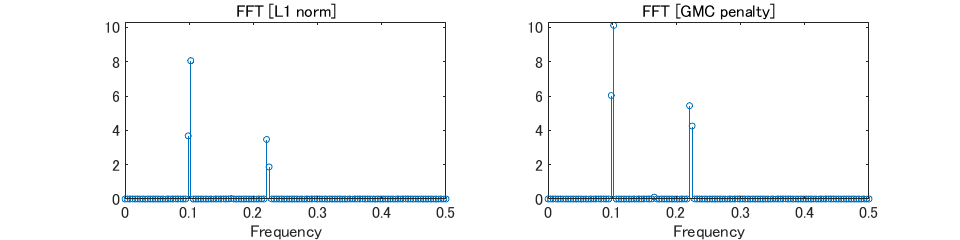
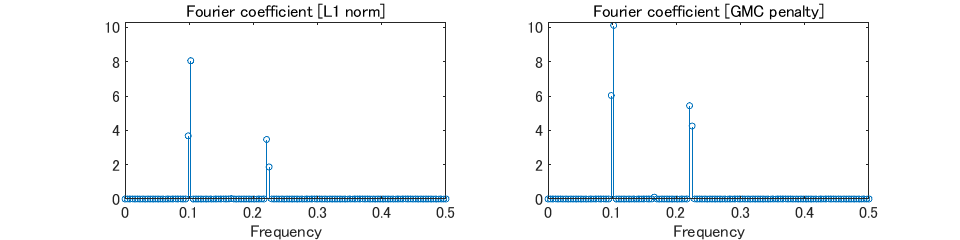
improve images

Changed region(s): [[0.5938, 0.0, 0.875, 0.0875], [0.1875, 0.0, 0.4062, 0.0875]]

diff --git a/problem11/main.m b/problem11/main.m
@@ -130,10 +130,10 @@ f2.Position(3:4) = [640 160];
 
 % Denoised signal
 f3 = figure;
-subplot(121), plot(1:M, data.A*x_L1(:, optimal_idx, 1)), title('Denoised [L1 norm]');
+subplot(121), plot(1:M, data.A*x_L1(:, optimal_idx, 1)), title('Denoised signal [L1 norm]');
 ylim([-5, 5]);
 xlabel("m");
-subplot(122), plot(1:M, data.A*x_GMC(:, optimal_idx, 1)), title('Denoised [GMC penalty]');
+subplot(122), plot(1:M, data.A*x_GMC(:, optimal_idx, 1)), title('Denoised signal [GMC penalty]');
 ylim([-5, 5]);
 xlabel("m");
 f3.Position(3:4) = [640 160];
@@ -143,10 +143,10 @@ f = linspace(0, (N/2)/N, N/2);
 fftg = abs(x_L1(:, optimal_idx, 1));
 ffty = abs(x_GMC(:, optimal_idx, 1));
 f4 = figure;
-subplot(121), stem(f, fftg(1:(N/2)), "MarkerSize", 3), title('FFT [L1 norm]');
+subplot(121), stem(f, fftg(1:(N/2)), "MarkerSize", 3), title('Fourier coefficient [L1 norm]');
 ylim([0, max(ffty)+0.2]);
 xlabel("Frequency");
-subplot(122), stem(f, ffty(1:(N/2)), "MarkerSize", 3), title('FFT [GMC penalty]');
+subplot(122), stem(f, ffty(1:(N/2)), "MarkerSize", 3), title('Fourier coefficient [GMC penalty]');
 ylim([0, max(ffty)+0.2]);
 xlabel("Frequency");
 f4.Position(3:4) = [640 160];
